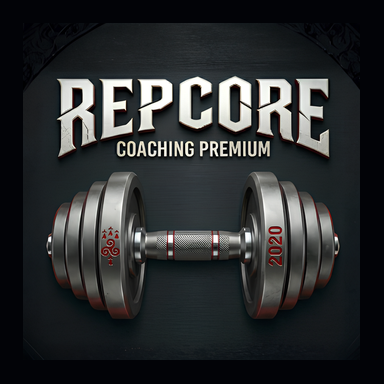
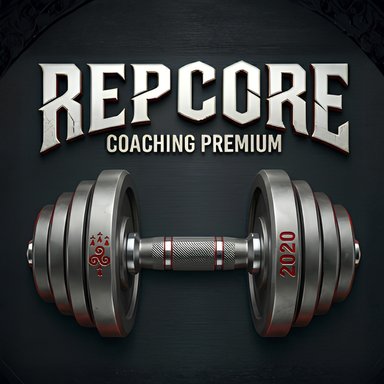
fix(pwa): icones launcher = image originale plein cadre, sans reduction

diff --git a/sw.js b/sw.js
@@ -1,4 +1,4 @@
-const CACHE = 'repcore-v298';
+const CACHE = 'repcore-v299';
 const SW_DATA = 'repcore-sw-data'; // persistent across updates — not wiped by activate
 const ASSETS = ['./manifest.json', './icons/icon-192x192.png', './icons/icon-512x512.png', './icons/logo.png', './data/ciqual.json'];
 
